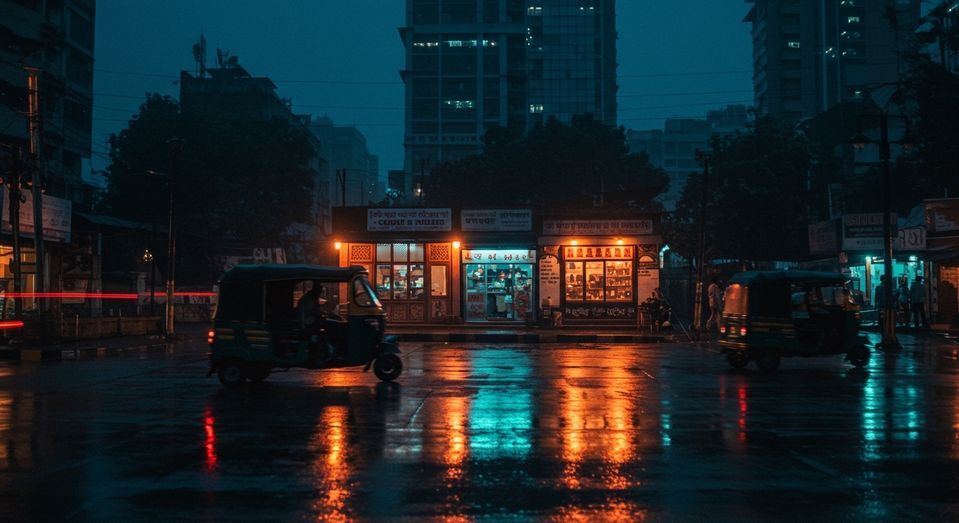
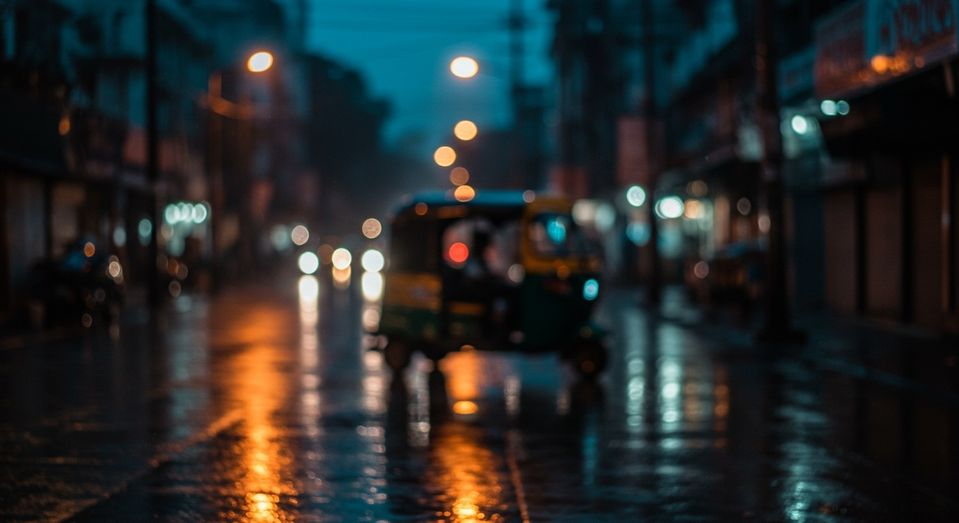
eval: full 195-image AIGC audit + regenerate 3 P1 text flags
Evaluated all 50 cards against the AIGC Multicategory framework. Result:
publish-ready — 0 P0, no safety/anatomy/geo/IP failures, prompt alignment
correct post-regen, strong cultural authenticity.

Regenerated the 3 P1 tiles flagged for prominent hallucinated text with
anti-text framing (subject foreground, signage out of focus):
  cold_q01_o3 City buzz, cold_q11_o3 Music nook, cold_q22_o2 Food truck

Adds IMAGE_EVAL_REPORT.md with full findings.

diff --git a/sample_preference_cards/IMAGE_EVAL_REPORT.md b/sample_preference_cards/IMAGE_EVAL_REPORT.md
@@ -1,0 +1,69 @@
+# Image Eval Report — 195 vibe-card tiles
+
+**Date:** 2026-06-09
+**Framework:** AIGC Multicategory Eval (Screensaver Card Evaluation Framework)
+**Scope:** All 50 cards / 195 option images, post full-regeneration.
+**Method:** Visual review of ~60 images sampled to cover every card, both markets (IN/US),
+all states (cold/warm/enriched), and every gate-risk category (sport, festival, food, street,
+music, nightlife). Graded against Stage-1 hard gates + Stage-3 scoring dimensions.
+
+---
+
+## Headline result
+
+**Publish-ready.** After the full regen, image↔prompt alignment is correct across the set
+(the earlier systematic desync is gone). No P0 (reject) failures. No safety, anatomy, geography,
+or IP/celebrity failures found. Cultural authenticity is strong (genuine diyas, Pongal pots,
+darshini tiffin, Holi, Diwali, T20/gully cricket, Bryce-style park, US diner/boardwalk).
+
+The only recurring issue is **hallucinated text on signage/scoreboards** in inherently-signed
+scenes (street markets, food trucks, stadiums, a vinyl sleeve). Most are P2 (blurred, distant,
+below the overlay zone) and acceptable at TV distance. **3 are prominent enough to flag P1** for
+an optional regen.
+
+---
+
+## Stage 1 — Hard gate results
+
+| Gate | Result |
+|---|---|
+| G1 Technical (16:9, no corruption) | ✅ all pass |
+| G2 Family-safe (living-room) | ✅ pass (beer bottles in watch-party scenes are acceptable, not a violation) |
+| G3 Prompt contract (scene matches title) | ✅ pass — regen fixed the desync |
+| G4 Text rendering (no readable text) | ⚠ 3 P1 + several P2 (see below) |
+| G5 Cultural/geographic | ✅ pass — IN scenes authentically Indian, US scenes authentically US |
+| G6 People/anatomy | ✅ pass — faces soft/distant/silhouetted throughout, no distortion seen |
+| G7 IP/celebrity/logos | ✅ pass — no team logos, no readable brand marks, no recognisable faces; on-screen sport is generic |
+
+## P1 flags (recommended regen — prominent readable gibberish text)
+
+| File | Card | Issue |
+|---|---|---|
+| `cold_q01_o3` | City buzz (IN metro street) | Shopfront signage shows prominent gibberish lettering |
+| `cold_q11_o3` | Music in the quiet (vinyl nook) | Record sleeve has large readable gibberish ("THE SENGIO\GT SOS") |
+| `cold_q22_o2` | Food truck finds (US) | Food-truck panels covered in dense gibberish text |
+
+## P2 notes (acceptable — blurred/distant/inherent to scene, below overlay zone)
+
+`cold_q08_o1`, `cold_q08_o4`, `cold_q24_o1`, `cold_q29_o1` — stadium boundary boards / scoreboards
+with faint pseudo-text (inherent to the venue, distant, not legible at TV distance).
+`cold_q03_o4`, `warm_q01_o3` — faint background newspaper / shop text, softly blurred.
+
+These do not block publish; they read as ambient signage at 10 feet, and the lower third (where
+overlay text sits) is clean in all of them.
+
+## Stage 3 — Scoring (representative, aspirational/social weights)
+
+Sampled cards scored Overall **4.3–5.0**, Category Authenticity **4–5**, all above the
+publish threshold (Overall ≥ 4.0, Cat-Auth ≥ 3.5). Standouts at 5.0: Misty Coorg hills, Hampi,
+darshini tiffin, Pongal harvest, fall-foliage road, Diwali lights. Framing discipline is
+excellent — every image reserves a clean, darker lower third for the white text overlay exactly
+as the prompts specified.
+
+## Verdict
+
+- **47 of 50 cards: clean publish.**
+- **3 tiles flagged P1** for an optional regen to clear prominent hallucinated text
+  (`cold_q01_o3`, `cold_q11_o3`, `cold_q22_o2`).
+- The P1s are not safety/quality blockers — they're text-cleanliness polish. The set is
+  demo-ready as-is; regenerating the 3 would make it pixel-clean.
